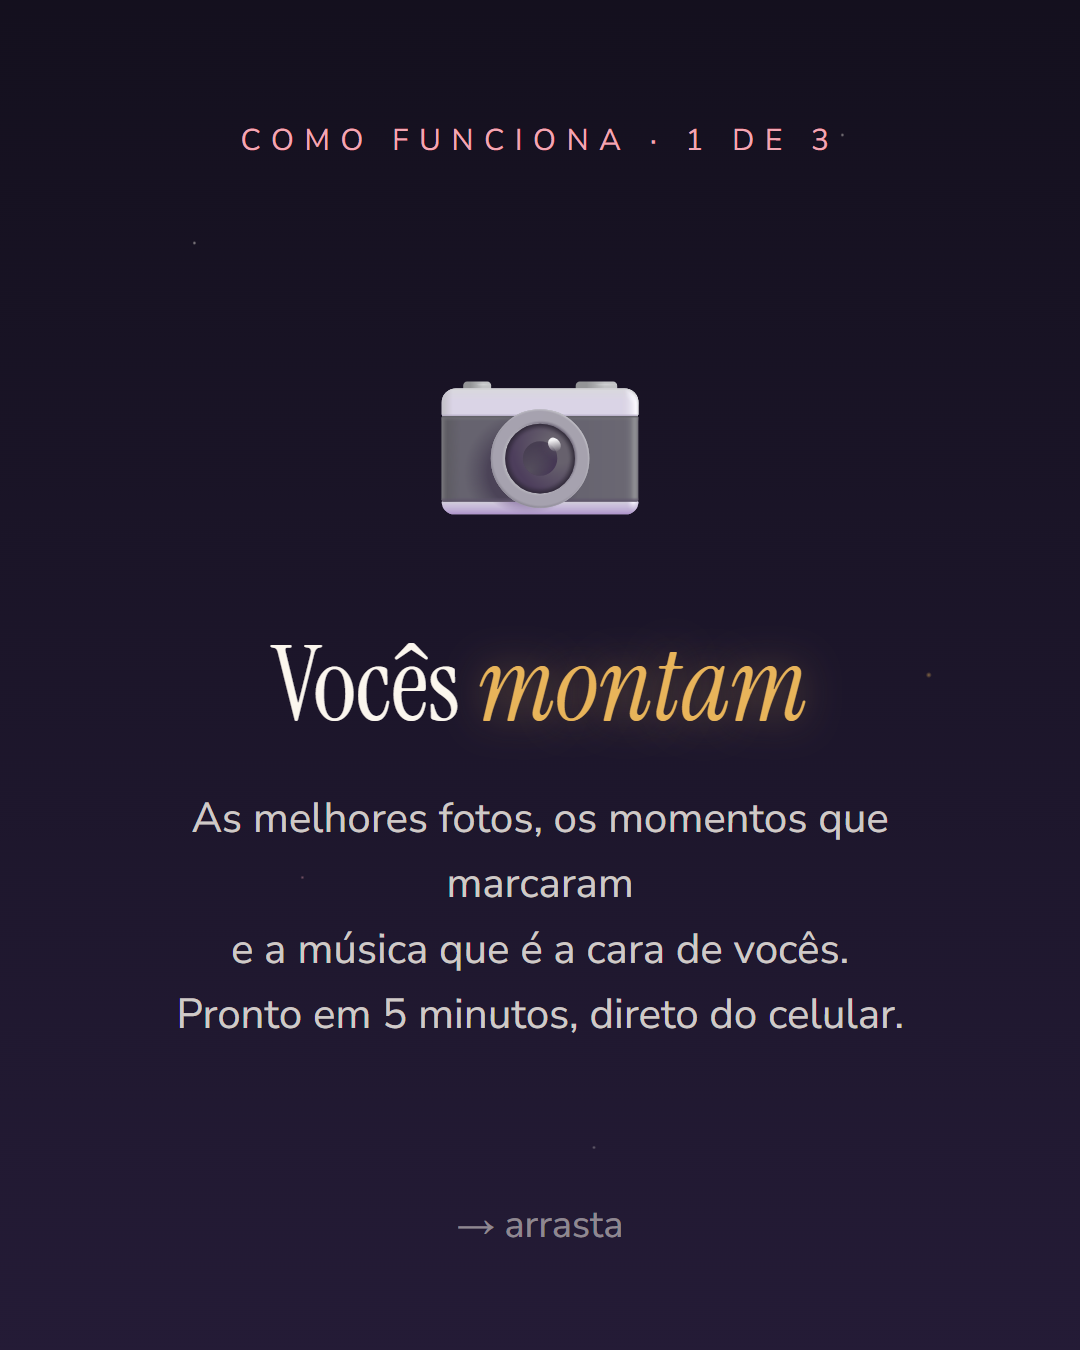
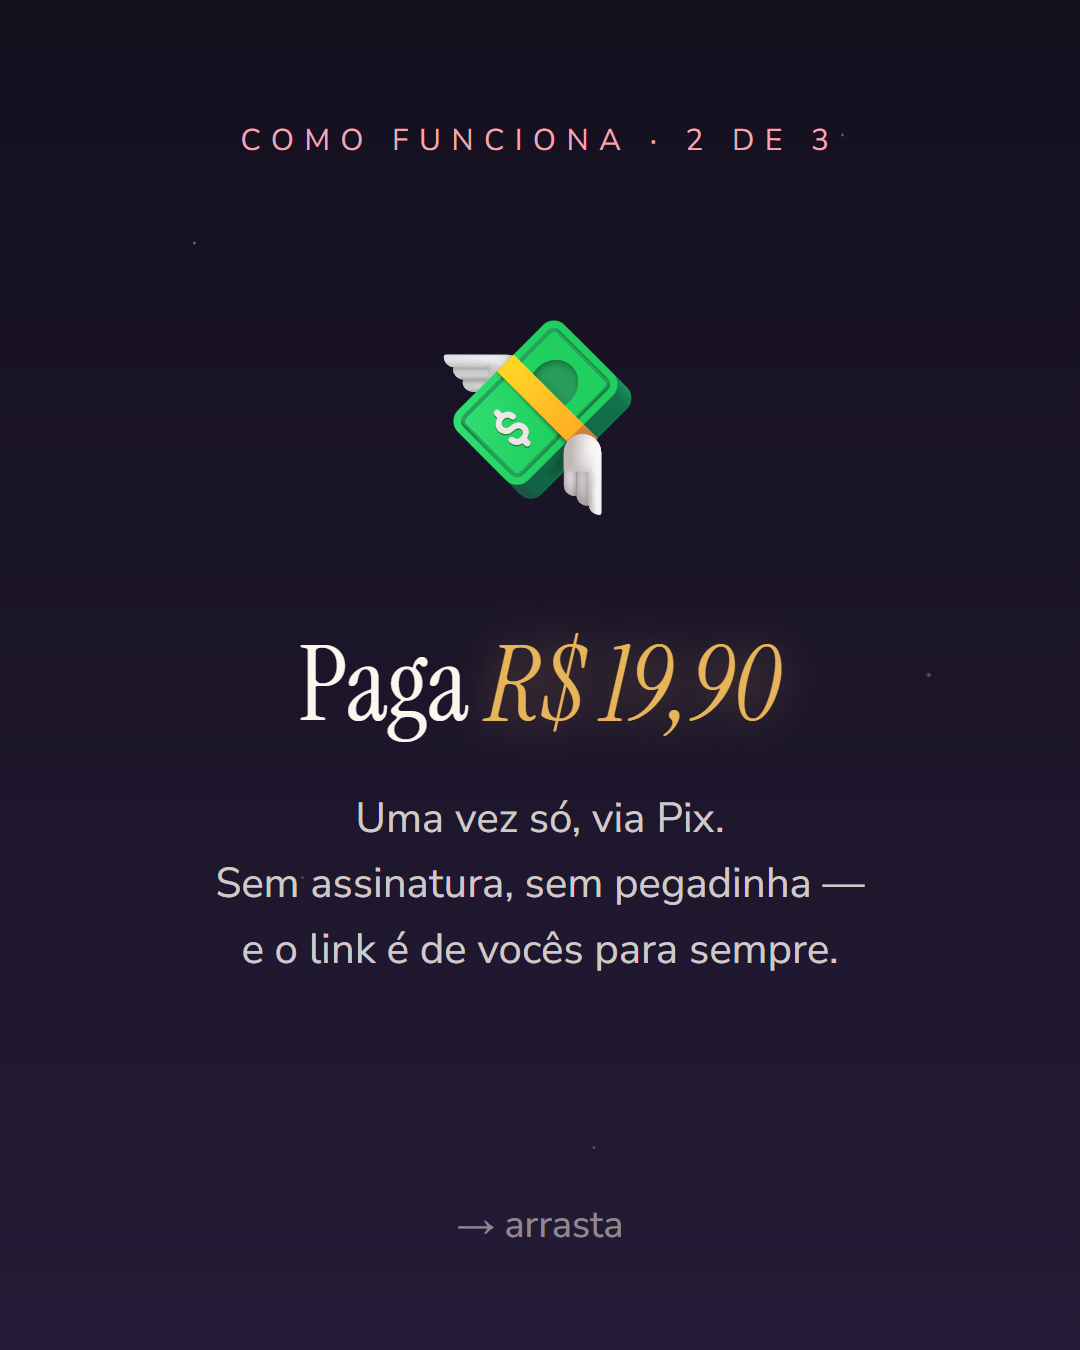
Corrige carrossel (lâminas iguais), capas de destaque e legendas prontas

diff --git a/marketing/legendas.md b/marketing/legendas.md
@@ -1,0 +1,167 @@
+# Nossa Retro — Legendas, roteiros e hashtags
+
+Guia de publicação: Instagram + TikTok. Cada peça tem legenda pronta para
+copiar e colar. Troque/ajuste à vontade — a voz da marca é: romântica sem
+ser melosa, direta, com humor leve.
+
+---
+
+## Bancos de hashtags
+
+**Conjunto A — casal/amor (posts emocionais):**
+`#relacionamento #casal #amor #namorados #diadosnamorados #aniversariodenamoro #casalfeliz #presentecriativo`
+
+**Conjunto B — presente/ocasião (posts de produto):**
+`#presente #presentecriativo #presentenamorado #presentenamorada #surpresa #surpresaromantica #presentedigital #aniversariodenamoro`
+
+**Conjunto C — TikTok (menos é mais, 3-5 por vídeo):**
+`#presentecriativo #casal #relacionamento #surpresaromantica #fy`
+
+Regra prática: Instagram 8–12 hashtags, TikTok 3–5. Sempre misture 1-2
+gerais (alcance) com específicas (intenção de compra).
+
+---
+
+## POST 1 — Carrossel "Como funciona" (primeiro post do feed)
+
+Arquivos: `carrossel-01-monte.png`, `carrossel-02-pague.png`,
+`carrossel-03-presenteie.png`
+
+**Legenda:**
+
+> O presente que faz chorar custa menos que uma pizza. 💛
+>
+> A Nossa Retro transforma a história de vocês em uma retrospectiva
+> animada: as fotos, os momentos que marcaram, a música de vocês e um
+> contador que mostra — segundo a segundo — há quanto tempo estão juntos.
+>
+> Funciona assim:
+> 1️⃣ Você monta em 5 minutos, direto do celular
+> 2️⃣ Paga R$ 19,90 no Pix (uma vez só, sem assinatura)
+> 3️⃣ Recebe um link eterno + QR code para esconder no presente
+>
+> A reação de quem recebe? Essa fica por conta do amor. 🥹
+>
+> Crie a de vocês → link na bio
+
+Hashtags: conjunto B + `#retrospectiva`
+
+---
+
+## POST 2 — Anúncio principal (feed)
+
+Arquivo: `feed-01-anuncio.png`
+
+**Legenda:**
+
+> Todo casal tem uma história. Poucas são contadas como merecem.
+>
+> Fotos + momentos + a música de vocês + contador ao vivo do tempo
+> juntos = a Nossa Retro. Um link só de vocês, para sempre.
+>
+> R$ 19,90 · Pix · pronto em 5 minutos → link na bio ✨
+
+Hashtags: conjunto A
+
+---
+
+## VÍDEO 1 — Demo do produto (Reels + TikTok)
+
+**Gravação:** grave a tela do celular abrindo `nossaretro.com.br/r/demo`
+e passando pelos slides (capa → contador → fotos → mensagem). 15–20s.
+Use uma música romântica em alta na plataforma (escolha nos "sons em
+alta" — isso importa mais que tudo no alcance).
+
+**Texto na tela (hook):** "fiz um site que transforma a história do
+casal em uma retrospectiva animada 🥹"
+
+**Legenda:**
+
+> Marca aquela pessoa que merece ganhar isso. 💛
+> Você monta com as fotos, os momentos e a música de vocês — e ainda tem
+> um contador que conta o tempo juntos segundo a segundo.
+> R$ 19,90, link na bio.
+
+Hashtags: conjunto C
+
+---
+
+## VÍDEO 2 — O contador (Reels + TikTok)
+
+**Gravação:** tela preta com a pergunta (2s) → corte para a gravação do
+contador rodando ao vivo na demo (5s) → corte para o final da retro
+(mensagem) → CTA. 12–15s.
+
+**Texto na tela:**
+1. "você sabe há EXATAMENTE quanto tempo vocês estão juntos?"
+2. (contador rodando) "cada segundo conta. literalmente."
+3. "nossaretro.com.br"
+
+**Legenda:**
+
+> Não é só "3 anos". São 3 anos, 7 meses, 25 dias, 12 horas e os
+> segundos correndo agora. ⏳💛
+> Transforme isso em presente → link na bio
+
+Hashtags: conjunto C
+
+---
+
+## VÍDEO 3 — Build in public (TikTok primeiro; se performar, Reels)
+
+**Gravação:** você falando para a câmera ou narrando por cima de prints
+do site + código. 30–45s.
+
+**Roteiro:**
+1. Hook: "Eu lancei um site que transforma a história de um casal em
+   uma retrospectiva animada — e custa menos que uma pizza."
+2. "Você coloca as fotos, os momentos, a música de vocês…"
+3. "…paga R$ 19,90 no Pix e ganha um link eterno com QR code para
+   esconder dentro de um cartão ou caixa de presente."
+4. "Construí sozinho do zero, e a primeira venda já saiu. Se quiser
+   testar ou apoiar: nossaretro.com.br — link na bio."
+
+**Legenda:**
+
+> Lancei meu primeiro micro-SaaS 🚀 Um presente digital para casais:
+> retrospectiva animada com fotos, música e contador do tempo juntos.
+> R$ 19,90 via Pix. Feedback é muito bem-vindo!
+
+Hashtags: `#microsaas #buildinpublic #dev #empreendedorismo #presentecriativo`
+
+---
+
+## STORY — Contador (Instagram Stories, usar 2-3x/semana)
+
+Arquivo: `story-01-contador.png`
+Publique com **link sticker** apontando para `https://nossaretro.com.br/criar`
+(texto do sticker: "Criar a nossa 💛").
+
+---
+
+## DESTAQUES do Instagram (capas prontas)
+
+| Arquivo | Nome do destaque | O que guardar nele |
+| --- | --- | --- |
+| `capa-destaque-como-funciona.png` | Como funciona | stories explicando o produto, prints do carrossel |
+| `capa-destaque-depoimentos.png` | Reações 💛 | reposts de clientes, prints de feedback (peça autorização) |
+| `capa-destaque-duvidas.png` | Dúvidas | stories de FAQ: "quanto custa?", "como recebo?", "posso editar?" |
+
+---
+
+## Bios (referência)
+
+**Instagram/TikTok — nome:** `Nossa Retro 💛`
+**Bio:** `O presente digital que conta a história de vocês 💛 Retrospectiva com fotos + música · R$ 19,90 · Crie a sua ⬇️`
+**Link:** `https://nossaretro.com.br`
+
+---
+
+## Cadência sugerida (semanas 1–4)
+
+- 3 vídeos/semana (mesmo arquivo nos dois apps; TikTok primeiro, o que
+  performar vira Reels impulsionado organicamente)
+- Stories nos dias de post (o do contador + bastidores)
+- Responda TODO comentário na primeira hora — o algoritmo recompensa
+- A cada 10 vídeos, olhe o Analytics: dobre no formato com maior
+  retenção média, mate o que não anda